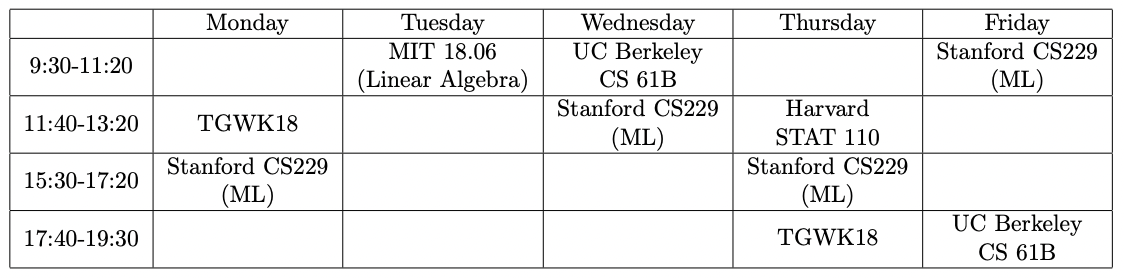
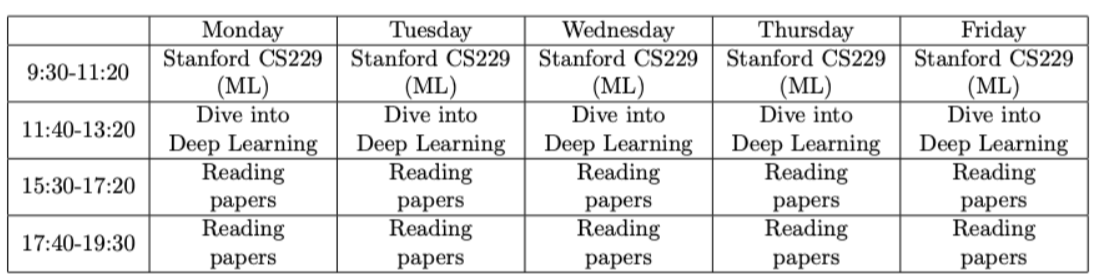
New schedule

diff --git a/README.md b/README.md
@@ -1,16 +1,14 @@
-# 找同学一起刷UCB的CS61B的proj
+* My schedule:![](./typora-images/Syllabus_1.png)
+  * Stanford CS229 (ddl: 23 January)
 
-- 找同学一起刷UCB的CS61B的proj，一起探讨进步～ 
-- 还有在学习很多海外top cs课程，有兴趣的话，也可以一起来刷，后续也可以相互推荐其他好课一起刷。正在刷的课程还有：
-  - Stanford CS229
-  - Stanford CS231N
-  - Harvard STAT110
-  - MIT 18.06
-  - UCB CS285
-  - TGWK18
-  
-
-- 有兴趣的同学欢迎联系qq/vx：980803171
-- 目前的课表是这样子：(实际学习会比课表多一些，学完了也会继续滚动更新～)
-
-![](./typora-images/Syllabus_1.png)
+- Other courses:
+  - [Stanford CS330 - Deep Multi-task and Meta Learning](https://cs330.stanford.edu) (reading papers simultaneously)
+  - Reinforcement Learning: (not decided)
+    - [UCL - Multi-agent Artificial Intelligence (20/21)](https://app6ca5octe2206.pc.xiaoe-tech.com/detail/p_603db816e4b0a77c389892d3/6)
+    - [UC Berkeley - Deep Reinforcement Learning](https://rail.eecs.berkeley.edu/deeprlcourse/)
+  - Deep Learning:
+    - [Stanford  231n - Convolutional Neural Networks for Visual Recognition](http://cs231n.stanford.edu)
+  - Mathematics:
+    - ~~MIT 18.06 - Linear Algebra~~
+    - [UCB CS70 - discrete Math and probability theory](https://www.eecs70.org)
+    - [UCB CS126 - Probability theory](https://inst.eecs.berkeley.edu/~ee126/fa20/content.html)(more advanced)
